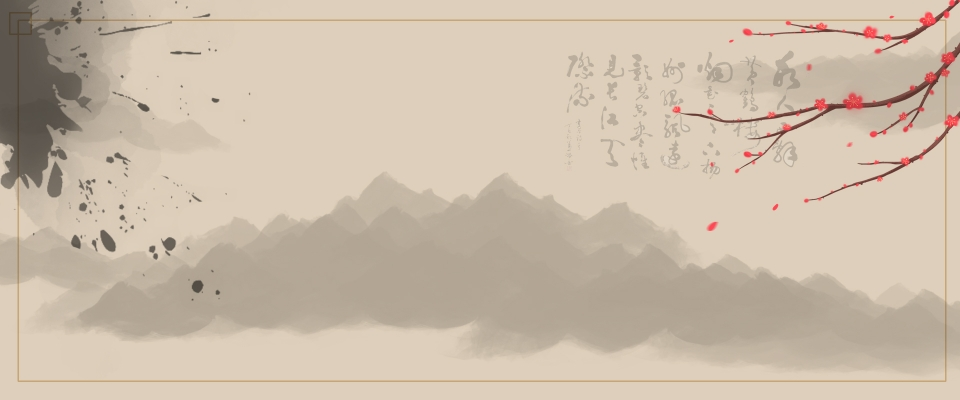
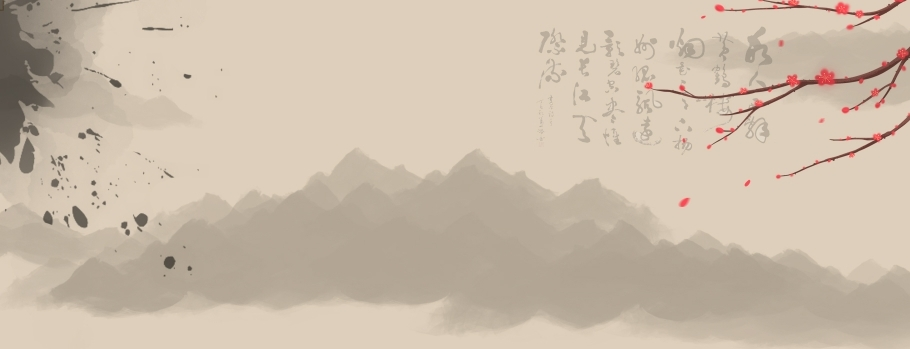
all products are added

diff --git a/Client/wwwroot/css/site.css b/Client/wwwroot/css/site.css
@@ -2,9 +2,8 @@
 body {
     /*margin-top: 20px;
     background: #eee;*/
-    background: url('images/background.jpg') no-repeat;
-    background-size: cover;
-
+    background: url('images/background.jpg') repeat;
+    /*background-size: cover;*/
 }
 
 
@@ -15,7 +14,7 @@ header {
     margin-bottom: 25px;
     padding: 15px;
     padding-left: 150px;
-    transition: transform 0.5s ease-in-out;
+    transition: transform 0.5s ease;
 }
 
 
